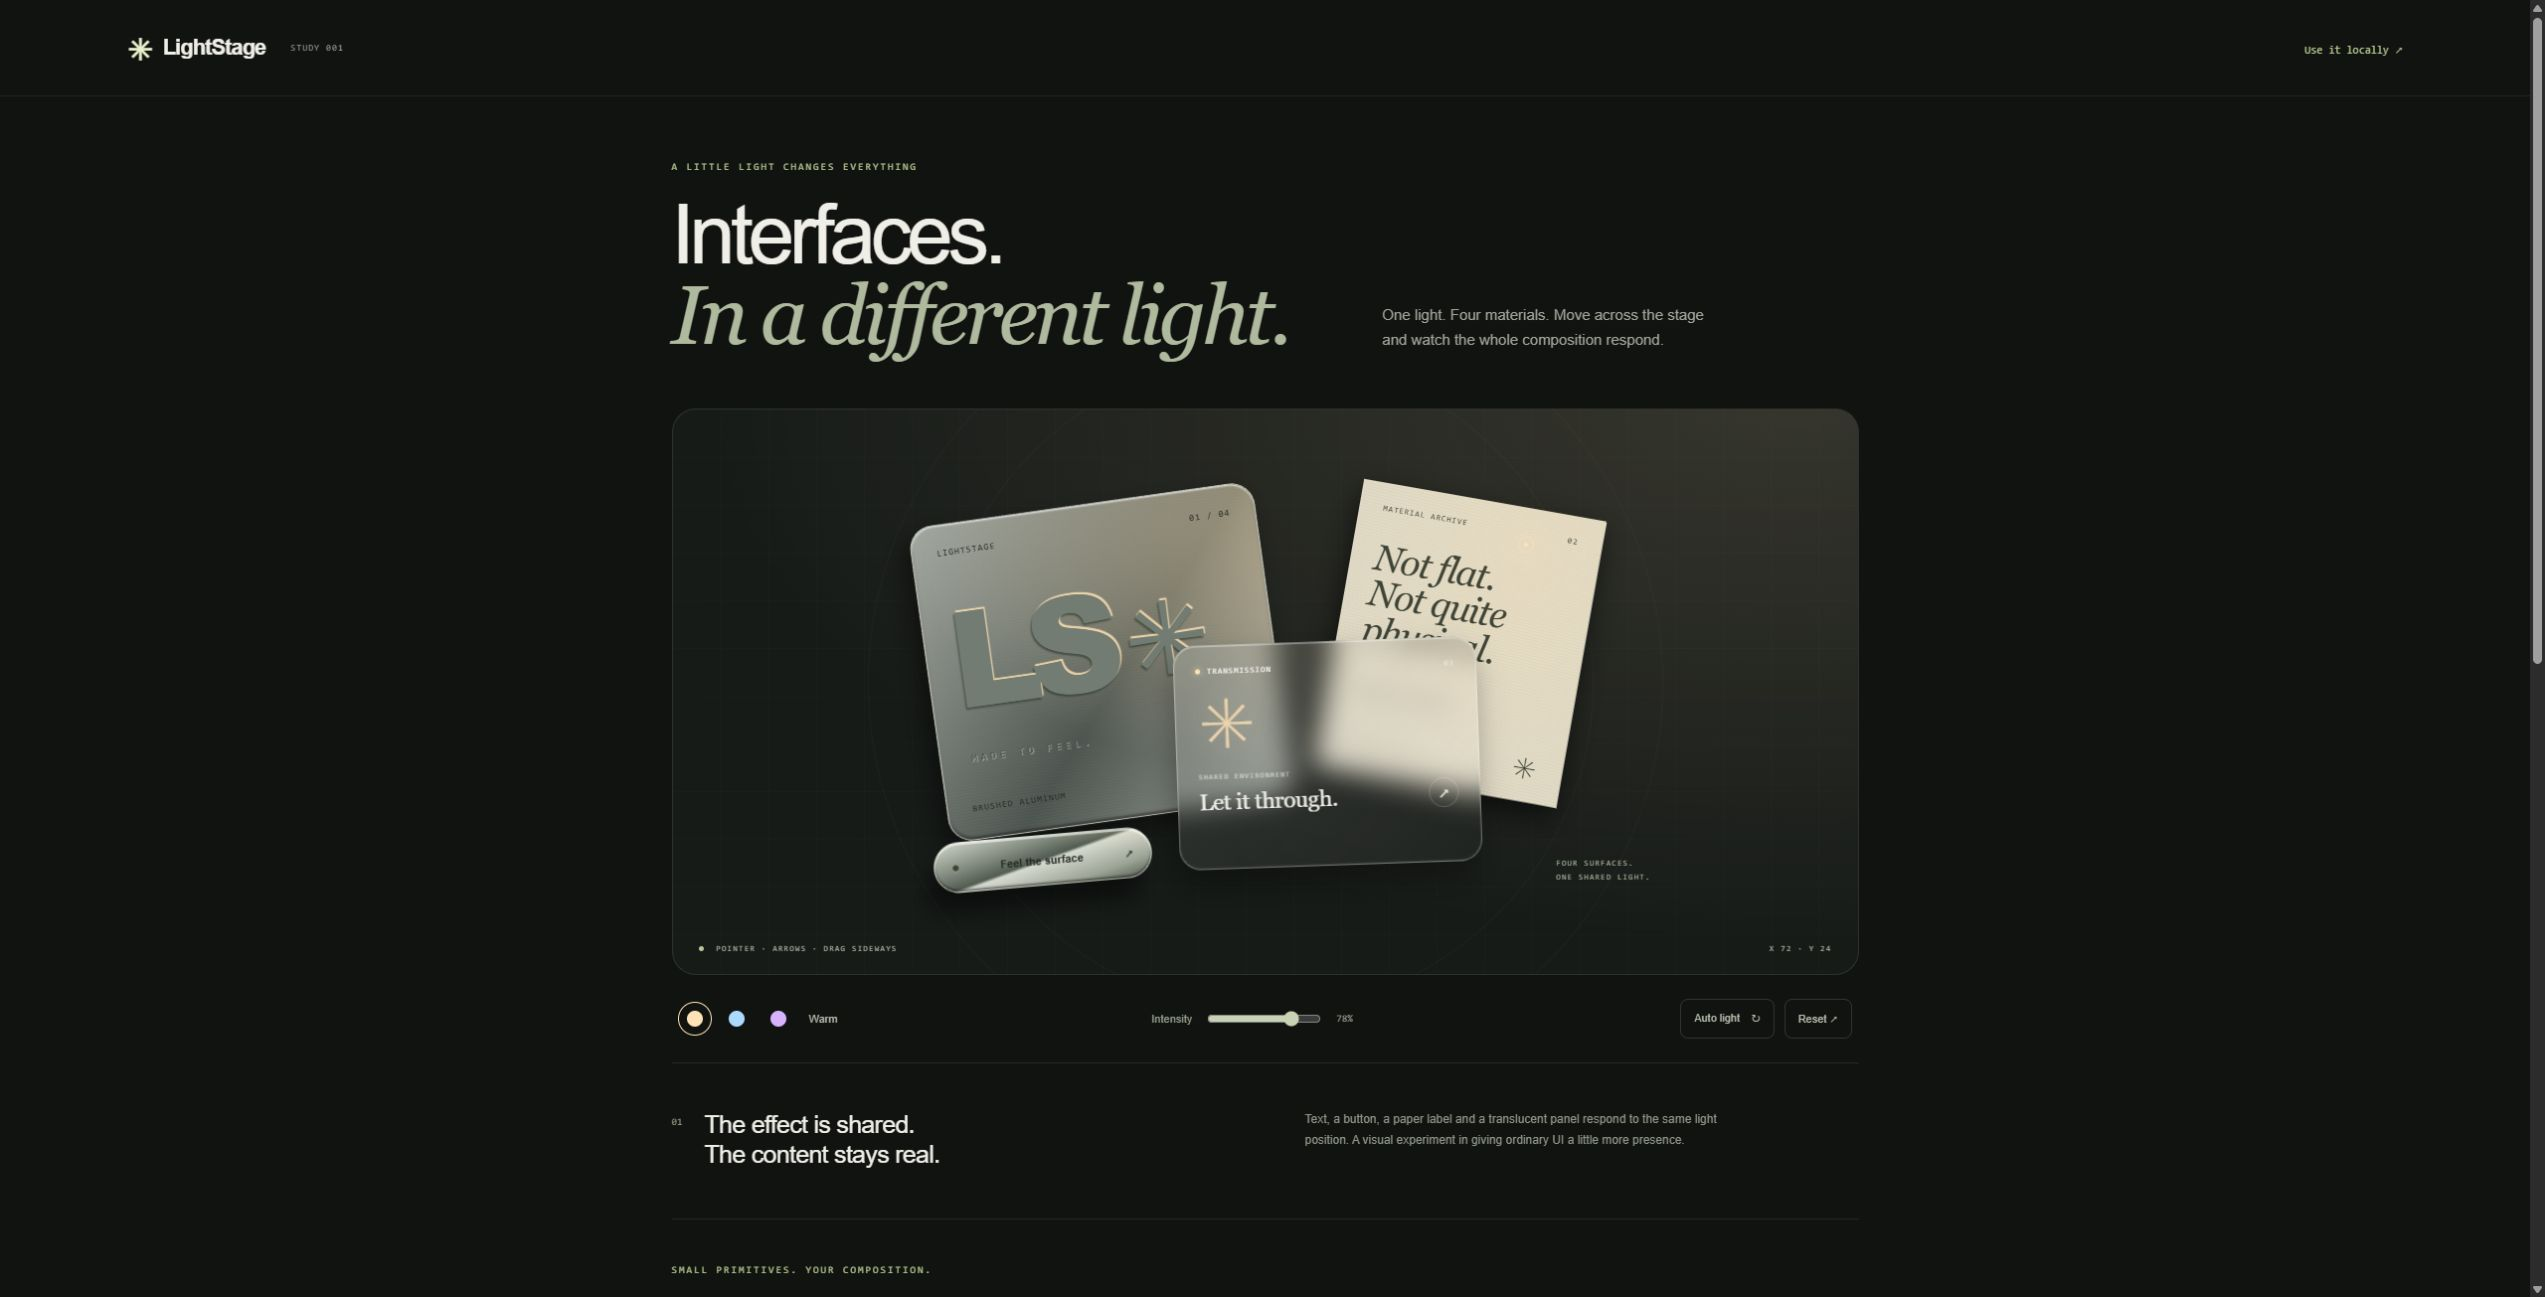
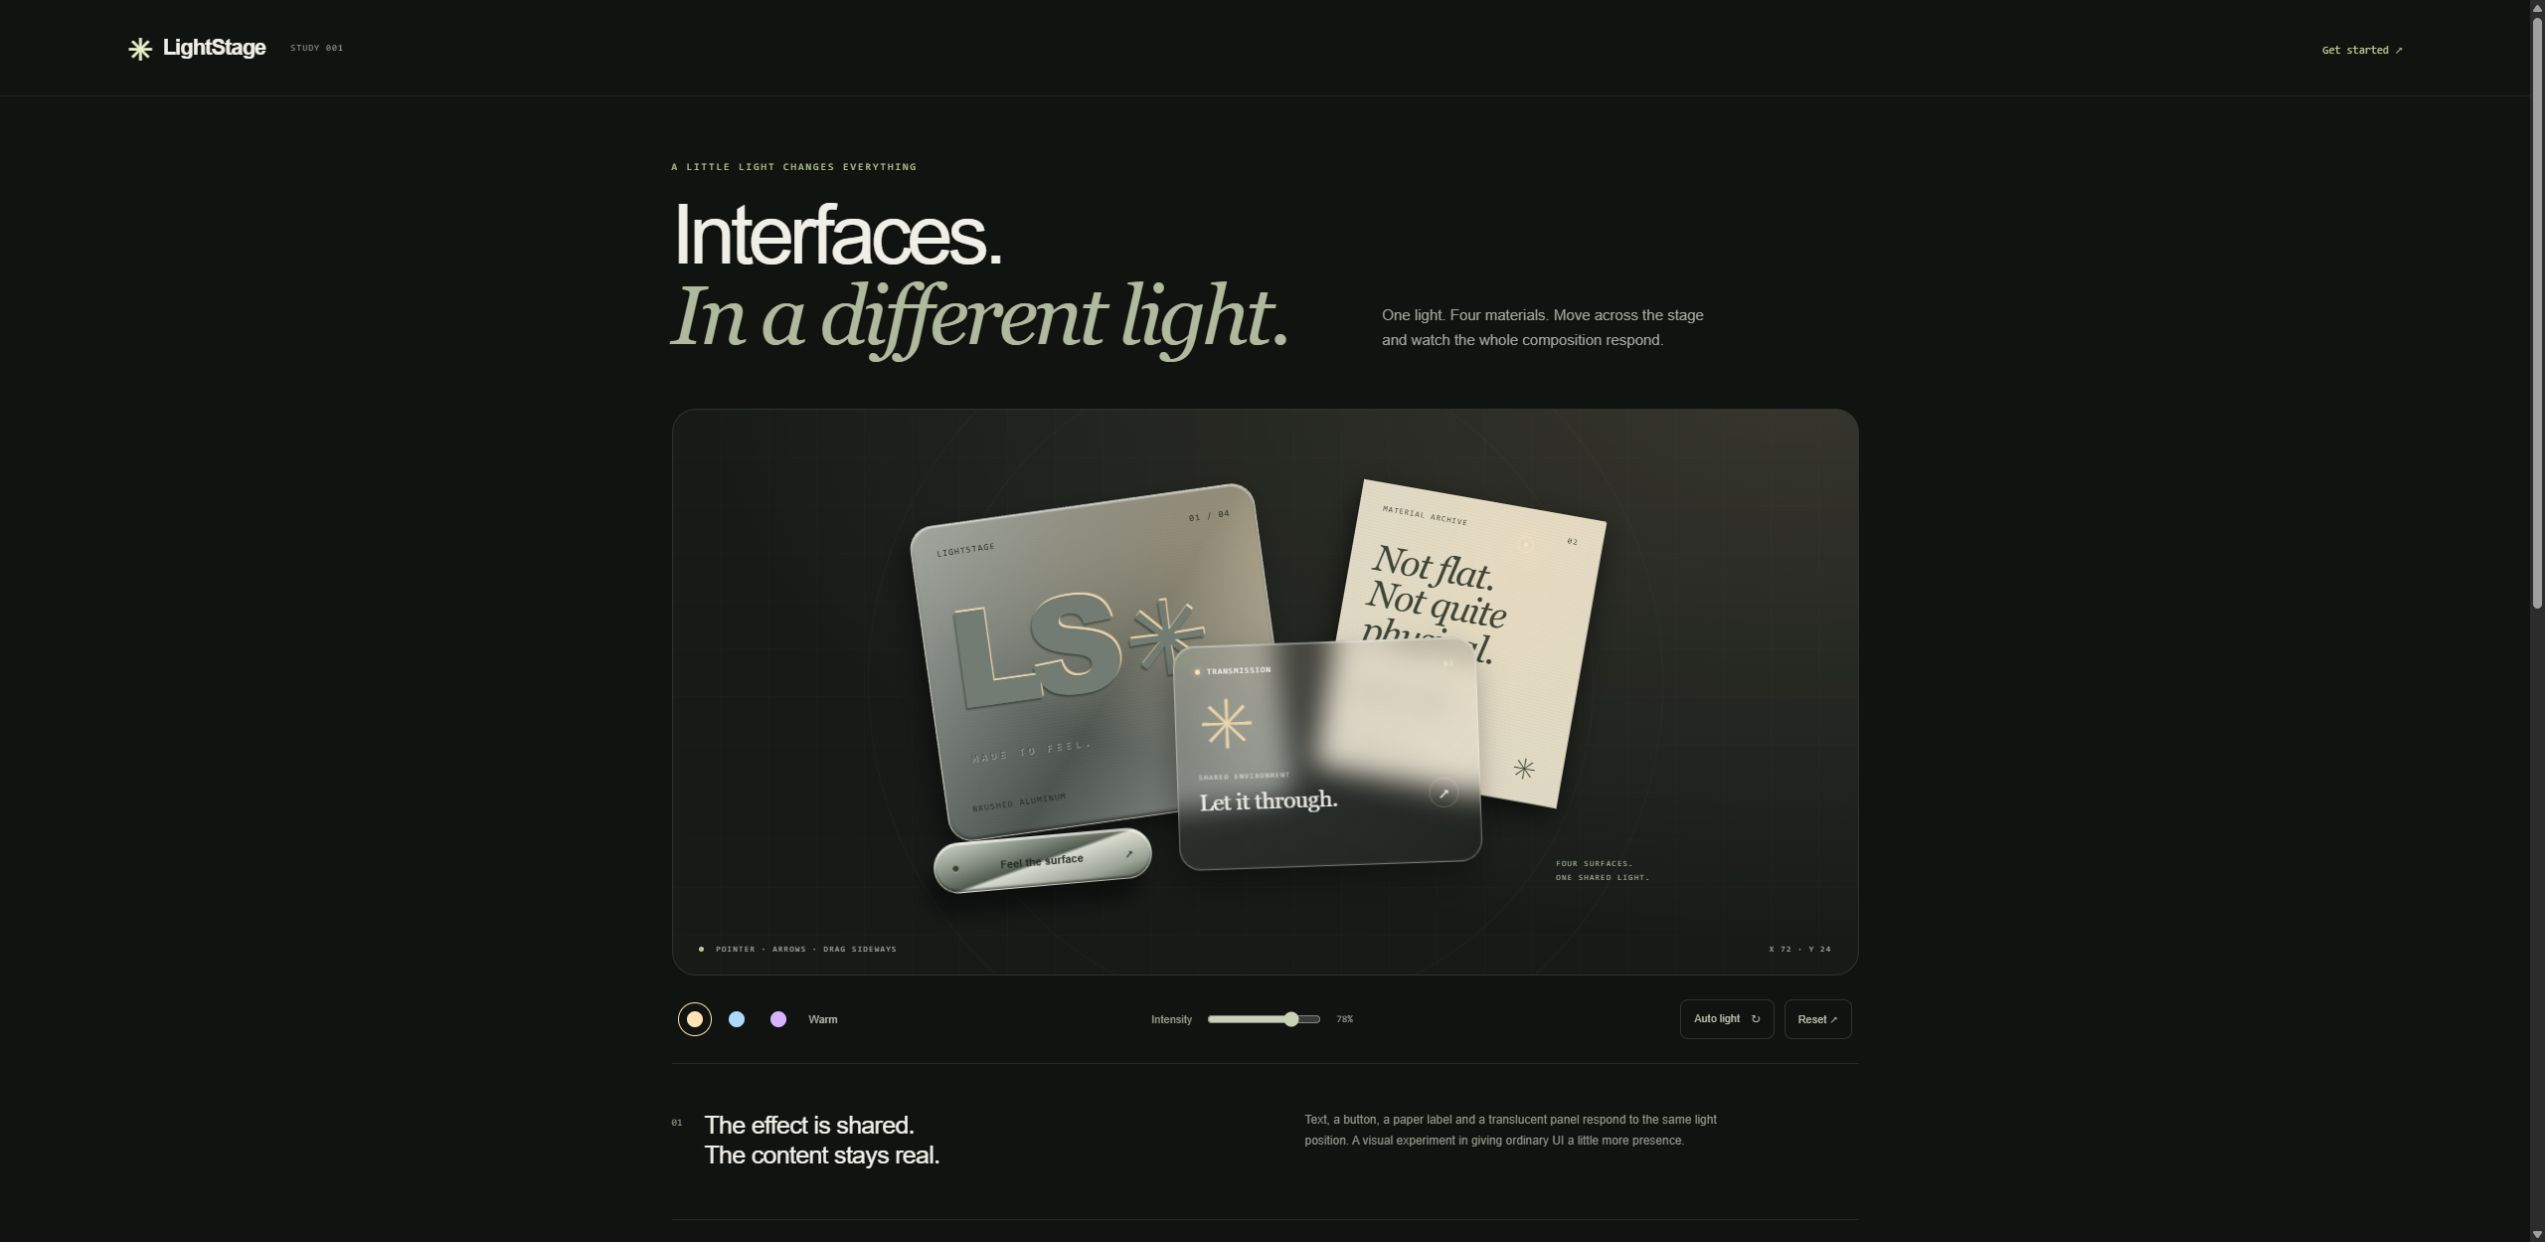
Record verified public installation and prepare launch assets

diff --git a/example/main.tsx b/example/main.tsx
@@ -41,7 +41,7 @@ function Composition(){return <><div className="stage-grid" aria-hidden="true"/>
 
 function Playground(){return <LightStage className="stage" controls={<Controls/>} aria-label="LightStage playground. Focus here; arrows move light and Home resets it."><Composition/></LightStage>;}
 function IndependentExample(){const [clicked,setClicked]=useState(false);return <LightStage className="small-scene" defaults={{palette:'cool',x:.25,y:.3}} aria-label="Independent example. Arrow keys move its light."><Material kind="paper"><span className="code-label">INDEPENDENT SCENE</span><h3>Your content belongs here.</h3><p>A second scene has its own light and controls.</p><a href="#api">Read the API ↗</a></Material><Material kind="glass"><label htmlFor="note">Editable content</label><input id="note" placeholder="Try typing here"/><MetalButton onClick={()=>setClicked(true)}>{clicked?'Clicked':'A real button'}</MetalButton></Material></LightStage>;}
-function Docs(){const [copyStatus,setCopyStatus]=useState('');return <section className="docs" id="get-started"><div className="eyebrow">SMALL PRIMITIVES. YOUR COMPOSITION.</div><h2>A shared light, in your React tree.</h2><div className="docs-grid"><div><p>Metal, glass and paper are real DOM surfaces. Bring your text, links and controls. Set the geometry in your own CSS.</p><p>Install the GitHub source archive in your React app. The package is not published to npm.</p><pre><code>npm install https://github.com/thakoreh/lightstage/archive/refs/tags/v0.1.0.tar.gz</code></pre><a href="/README.md">Full documentation ↗</a></div><div><button className="copy" onClick={async()=>{try{await navigator.clipboard.writeText(snippet);setCopyStatus('Copied');}catch{setCopyStatus('Select the code below to copy it.');}}}>Copy example</button><span className="copy-status" role="status">{copyStatus}</span><pre tabIndex={0}><code>{snippet}</code></pre></div></div>
+function Docs(){const [copyStatus,setCopyStatus]=useState('');return <section className="docs" id="get-started"><div className="eyebrow">SMALL PRIMITIVES. YOUR COMPOSITION.</div><h2>A shared light, in your React tree.</h2><div className="docs-grid"><div><p>Metal, glass and paper are real DOM surfaces. Bring your text, links and controls. Set the geometry in your own CSS.</p><p>Install the GitHub source archive in your React app. The package is not published to npm.</p><pre><code>npm install https://github.com/thakoreh/lightstage/archive/refs/tags/v0.1.0.tar.gz</code></pre><a href="https://github.com/thakoreh/lightstage#readme">Source & documentation ↗</a></div><div><button className="copy" onClick={async()=>{try{await navigator.clipboard.writeText(snippet);setCopyStatus('Copied');}catch{setCopyStatus('Select the code below to copy it.');}}}>Copy example</button><span className="copy-status" role="status">{copyStatus}</span><pre tabIndex={0}><code>{snippet}</code></pre></div></div>
 <div id="api" className="api"><h3>Four exports. One small model.</h3><dl><div><dt>LightStage</dt><dd>The scoped scene, input handling and provider. Set initial position, palette and intensity through defaults.</dd></div><div><dt>Material</dt><dd>Choose metal, glass or paper. Children and geometry stay yours.</dd></div><div><dt>MetalButton</dt><dd>A native button with the chrome treatment. Supports refs, disabled state and ordinary events.</dd></div><div><dt>useLightStage</dt><dd>Read state and control position, intensity, palette, automatic motion or reset.</dd></div></dl></div><IndependentExample/><p className="limitations">Stylized gradients, textures and shadows. No ray tracing or physical refraction. Glass uses backdrop blur with an opaque fallback. Automatic motion is opt-in and respects reduced motion.</p></section>;}
-function App(){return <><header><a className="brand" href="#"><span className="brand-icon">✳</span> LightStage<span className="version">STUDY 001</span></a><nav><a href="#get-started">Use it locally ↗</a></nav></header><main><section className="intro"><div className="eyebrow">A LITTLE LIGHT CHANGES EVERYTHING</div><h1>Interfaces.<br/><em>In a different light.</em></h1><p>One light. Four materials. Move across the stage<br className="desktop"/> and watch the whole composition respond.</p></section><section className="exhibit" aria-label="Interactive light stage"><Playground/></section><section className="caption"><div><span className="index">01</span><h2>The effect is shared.<br/>The content stays real.</h2></div><p>Text, a button, a paper label and a translucent panel respond to the same light position. A visual experiment in giving ordinary UI a little more presence.</p></section><Docs/><footer><span>LIGHTSTAGE / LOCAL DEVELOPER PREVIEW</span><span>Stylized lighting · React + CSS · Unpublished</span></footer></main></>;}
+function App(){return <><header><a className="brand" href="#"><span className="brand-icon">✳</span> LightStage<span className="version">STUDY 001</span></a><nav><a href="#get-started">Get started ↗</a></nav></header><main><section className="intro"><div className="eyebrow">A LITTLE LIGHT CHANGES EVERYTHING</div><h1>Interfaces.<br/><em>In a different light.</em></h1><p>One light. Four materials. Move across the stage<br className="desktop"/> and watch the whole composition respond.</p></section><section className="exhibit" aria-label="Interactive light stage"><Playground/></section><section className="caption"><div><span className="index">01</span><h2>The effect is shared.<br/>The content stays real.</h2></div><p>Text, a button, a paper label and a translucent panel respond to the same light position. A visual experiment in giving ordinary UI a little more presence.</p></section><Docs/><footer><span>LIGHTSTAGE / REACT MATERIAL STUDY</span><span>Stylized lighting · React + CSS · MIT</span></footer></main></>;}
 createRoot(document.getElementById('root')!).render(<React.StrictMode><App/></React.StrictMode>);

diff --git a/docs/VERIFICATION.md b/docs/VERIFICATION.md
@@ -59,10 +59,10 @@ No Firefox, Safari, iOS device, physical touch device or screen-reader QA was pe
 
 No accessibility conformance, exhaustive contrast certification, broad browser support or measured performance guarantee is claimed. Forced-color and missing-backdrop-filter CSS fallbacks are implemented, with browser verification still pending. Consumer content needs its own contrast checks. Moving CSS transforms while the light is stationary require a subsequent light/resize/scroll update to refresh rectangle geometry.
 
-No shadcn registry endpoint, npm publication, hosted showcase update or social post exists. GitHub source publication under MIT is authorized; exact remote-install and CI evidence will be recorded after publication. npm publication, hosted deployment and social posting remain separate decisions.
+No shadcn registry endpoint, npm publication, hosted showcase update or social post exists. The public MIT source is https://github.com/thakoreh/lightstage; public-install and CI evidence is recorded below. npm publication, hosted deployment and social posting remain separate decisions.
 
 ## Public source installation
 
 The public commit archive at `25169a09d6d5fc72116bd3cf7c9d23ff12c1311b` was installed into a new consumer outside the repository. ESM import, SSR, all public component/hook types, exported CSS bundling and project-scoped agent installation passed. The check is reproducible with `npm run public:check -- <exact-commit-archive-url>`.
 
-The first GitHub CI run passed typecheck, all 15 tests, the original 21 assertions, the production build and committed-artifact consistency on Node 22 and 24. Its tarball consumer step exposed an incorrect test-harness assumption: npm ci does not necessarily cache the registry metadata required for a fresh offline peer resolution. The harness now prefers cached data while allowing metadata fetches; it does not bypass peer checks. The next CI run must verify that correction before a release tag is finalized.
+The first GitHub CI run passed typecheck, all 15 tests, the original 21 assertions, the production build and committed-artifact consistency on Node 22 and 24. Its tarball consumer step exposed an incorrect test-harness assumption: npm ci does not necessarily cache the registry metadata required for a fresh offline peer resolution. The harness now prefers cached data while allowing metadata fetches; it does not bypass peer checks. The corrected run passed on Node 22 and Node 24, including the public archive check on the exact push commit: https://github.com/thakoreh/lightstage/actions/runs/40397523142 (commit `02c381febea3d0a2502739f6cebdc33a01c7b463`). CI repeats these checks on subsequent main commits.

diff --git a/docs/RELEASE.md b/docs/RELEASE.md
@@ -13,17 +13,17 @@ The distribution is a small React 19 library: a scoped scene, metal/glass/paper 
 
 ## Launch draft - not posted
 
-I wanted UI to feel a little less flat, so I built LightStage.
+One light. Metal, glass, paper.
 
-One light moves across brushed metal, translucent glass and textured paper. The highlights and shadows move together. Your text, inputs and buttons stay real React content.
+I built LightStage to make real React UI feel a little less flat.
 
-Small API. Editable source. Keyboard and touch controls. Opt-in motion that respects reduced motion.
+Shared highlights and shadows. Real buttons and inputs. Keyboard + touch.
 
-It's a CSS illusion, not ray tracing.
+Small API. MIT. Stylized CSS lighting.
 
-MIT licensed: https://github.com/thakoreh/lightstage
+https://github.com/thakoreh/lightstage
 
-Try the source, tell me where you'd use it, and show me what you make.
+Where would you use it?
 
 ## Visual story
 
